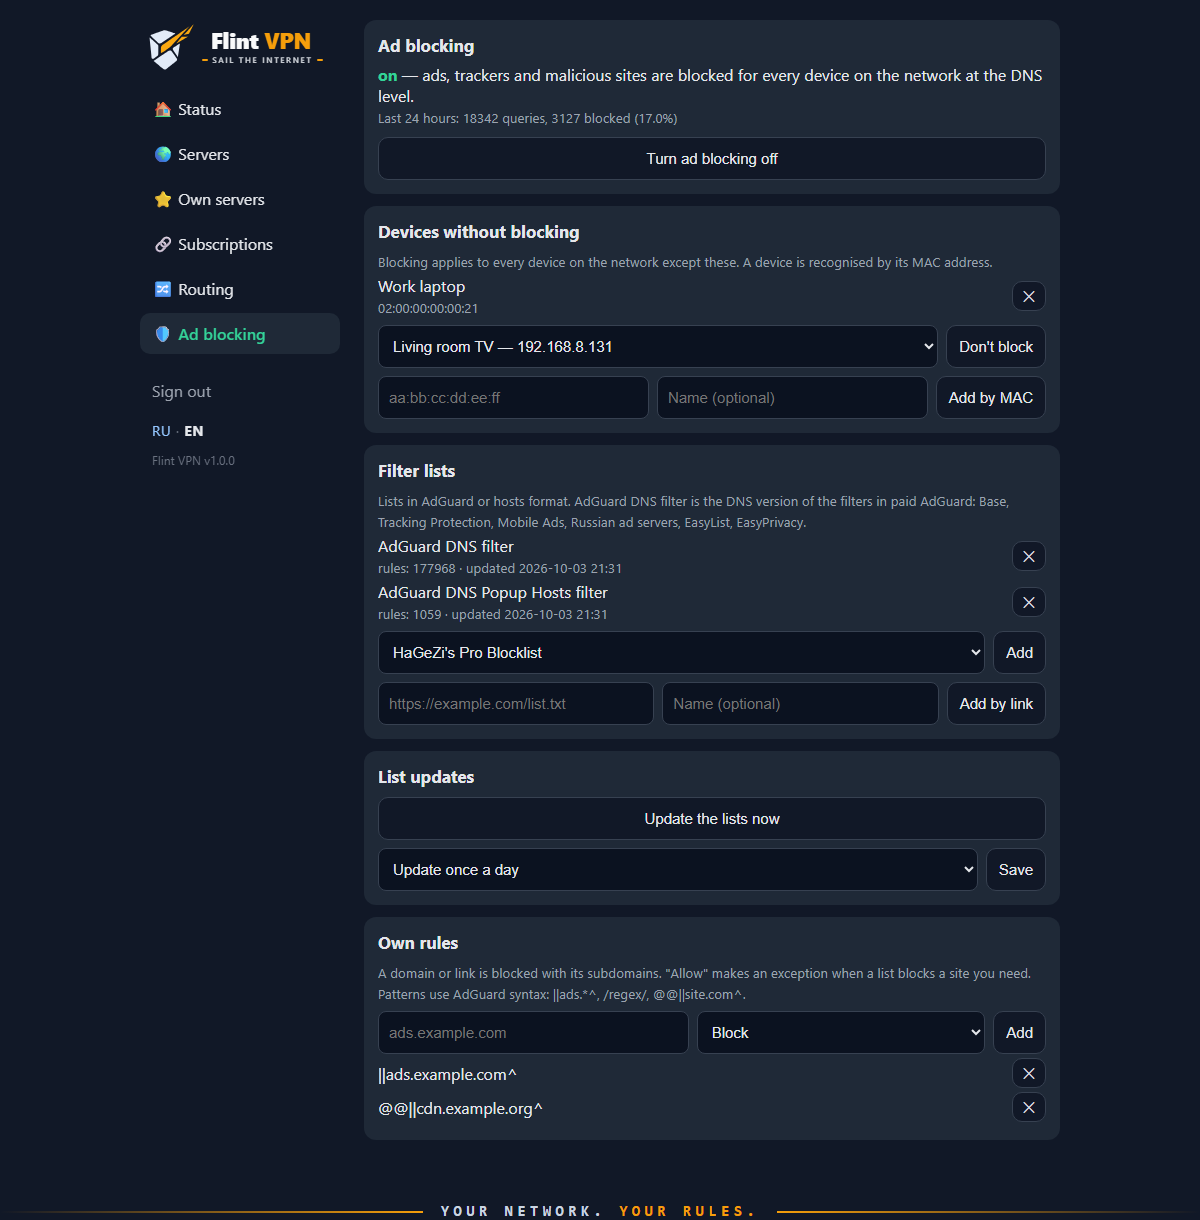
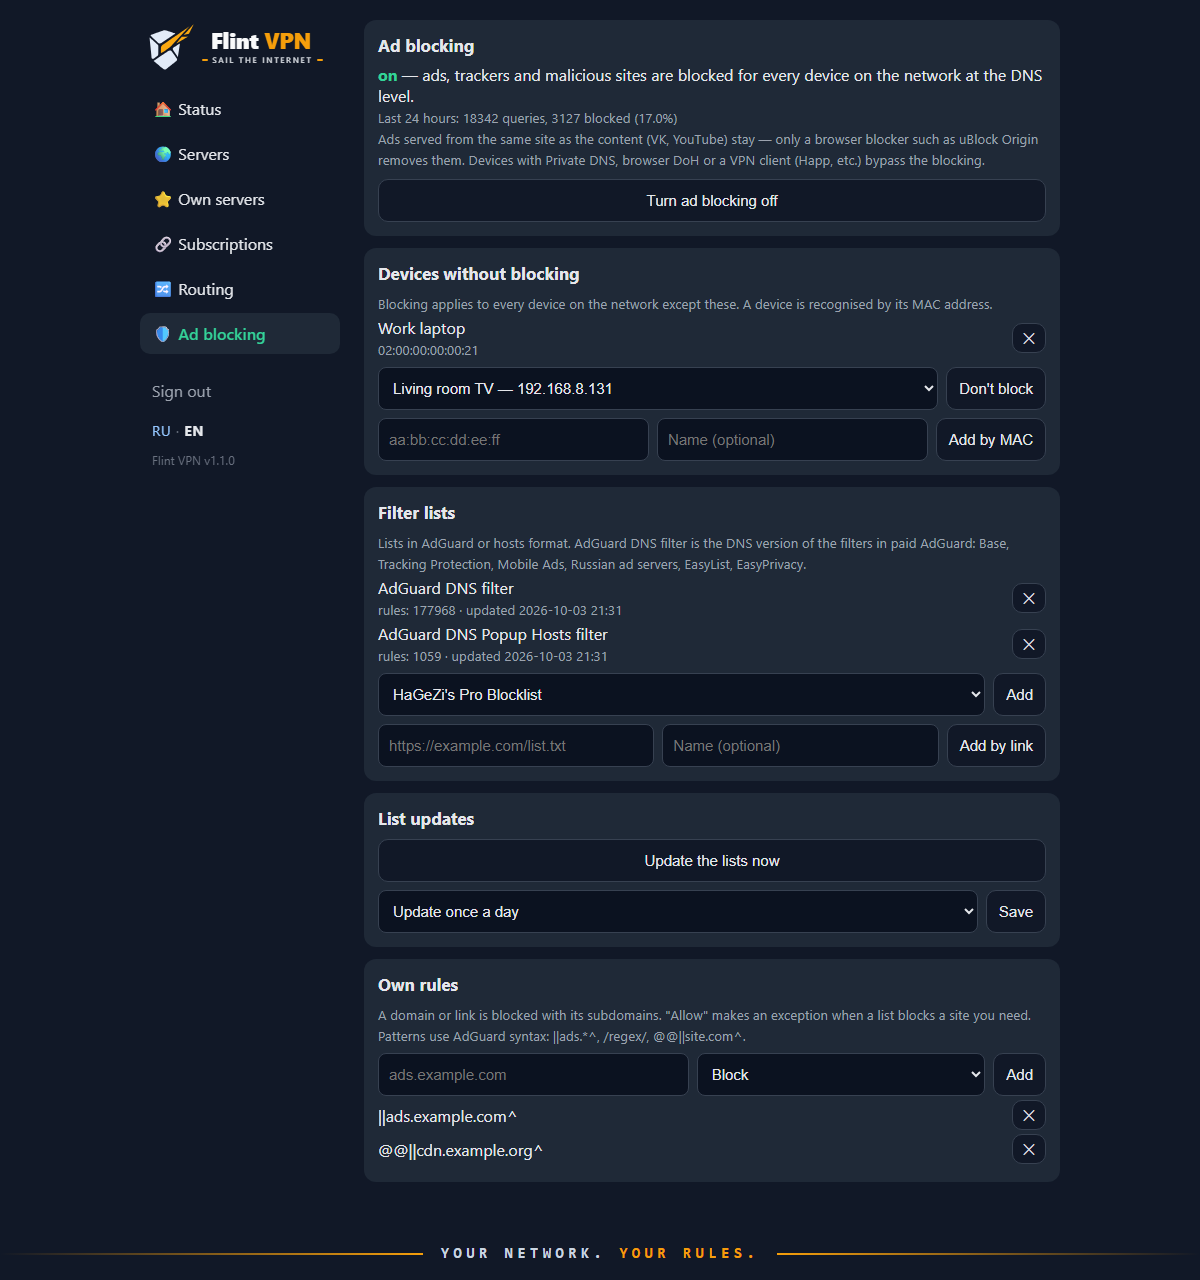
Docs: where ads remain, devices on the network (EN); re-shot screenshots, no-servers screen
- Ad blocking tab notes same-site ads (VK, YouTube) and who bypasses the blocking

- no-servers links are buttons now (were barely visible)

diff --git a/README.md b/README.md
@@ -62,8 +62,8 @@ Flint VPN превращает роутер GL.iNet в прозрачный VPN-
 | ![Подписки](docs/screenshots/subs.png) | ![Маршрутизация](docs/screenshots/routing.png) |
 | **Блокировка рекламы** | **Телефон** |
 | ![Блокировка рекламы](docs/screenshots/adblock.png) | ![Телефон](docs/screenshots/mobile-status.png) |
-| **Телефон: серверы** | |
-| ![Телефон: серверы](docs/screenshots/mobile-servers.png) | |
+| **Телефон: серверы** | **Без серверов** |
+| ![Телефон: серверы](docs/screenshots/mobile-servers.png) | ![Без серверов](docs/screenshots/empty.png) |
 
 На скриншотах демо-данные: адреса из документационных диапазонов, выдуманные серверы и ключи.
 
@@ -339,9 +339,24 @@ python tools/sub2nodes.py --grpc    # плюс gRPC-серверы
 
 Правила начинают действовать через несколько секунд.
 
-**Чего DNS-блокировка не умеет:** убирать рекламу, которая идёт с того же домена, что и контент (YouTube, ВКонтакте), и скрывать элементы на странице — это делают только расширения браузера вроде uBlock Origin. Устройства с «Частным DNS» или DoH в браузере обходят DNS роутера, а значит, и блокировку (см. [Устройства в сети](#устройства-в-сети)).
-
 AdGuard Home занимает 40–60 МБ памяти; при выключенной блокировке он остановлен.
+
+### Где реклама останется
+
+DNS-блокировка видит только имена сайтов, к которым обращается устройство, но не содержимое страниц. Отсюда ограничения:
+
+- **Реклама с того же домена, что и контент, остаётся.** ВКонтакте (рекламные блоки в ленте и в левой колонке), YouTube (ролики перед видео и внутри них), Instagram, Facebook, поиск и Дзен Яндекса отдают рекламу со своих же серверов вместе с лентой, а картинки к ней — с тех же адресов, что и фото в постах. Заблокировать такую рекламу по DNS можно только вместе с самим сайтом. Поэтому правило «Блокировать» для `vk.com` или `youtube.com` не поможет, а только сломает сайт.
+- **Элементы страницы не скрываются.** На месте заблокированного баннера может остаться пустая рамка или заглушка.
+- **Реклама внутри приложений** (YouTube на телевизоре, приложения соцсетей на телефоне) убирается только частично, по той же причине.
+
+На таких сайтах помогает только блокировщик на самом устройстве: в браузере на компьютере — расширение [uBlock Origin](https://ublockorigin.com/), на Android — Firefox с uBlock Origin. Оно прячет рекламные блоки прямо на странице и хорошо дополняет блокировку на роутере: роутер закрывает рекламные и трекерные домены на всех устройствах, включая телевизоры и приложения, а расширение — то, что идёт с самого сайта.
+
+**Кто обходит блокировку.** Устройства, чьи DNS-запросы идут мимо роутера:
+- Android с включённым «Частным DNS»;
+- браузеры с «безопасным DNS» (DoH): Chrome, Edge, Firefox, Яндекс Браузер;
+- устройства с включённым VPN-клиентом (Happ, v2rayN, Hiddify и т. п.): DNS и весь трафик уходят в его туннель, поэтому не работают ни блокировка, ни VPN роутера. За Flint VPN-клиент не нужен — выключите его.
+
+Подробнее о настройке устройств — в разделе [Устройства в сети](#устройства-в-сети). Если после включения блокировки сломался нужный сайт, разрешите его домен в «Своих правилах» или добавьте устройство в «Устройства без блокировки».
 
 ## Доступ к Flint из сети основного роутера
 
@@ -431,7 +446,7 @@ logread -e xray                # логи Xray
 
 ## Устройства в сети
 
-- VPN-клиент на устройствах за Flint не нужен. Если он всё же включён (например, Happ), его соединения с серверами провайдера идут с Flint напрямую, а не через второй VPN.
+- VPN-клиент на устройствах за Flint не нужен. Если он всё же включён (например, Happ), его соединения с серверами провайдера идут с Flint напрямую, а не через второй VPN, но такое устройство обходит гео-фильтр, свои сайты и блокировку рекламы роутера: всё решает клиент.
 - **Android:** *Настройки → Сеть → Частный DNS → Выкл.*, иначе телефон обходит DNS роутера.
 - **Windows:** в свойствах Wi‑Fi *Назначение DNS → Автоматически (DHCP)*; иначе включённый DoH обходит DNS роутера и локальные имена (`nas01`) не резолвятся.
 - **Браузеры** с включённым «безопасным DNS» (DoH) тоже обходят DNS роутера — гео-фильтр и свои сайты по доменам при этом продолжают работать (Xray определяет домен по TLS), а локальные имена и блокировка рекламы — нет.
@@ -462,7 +477,8 @@ logread -e xray                # логи Xray
 | Российский сайт открывается через VPN | нет баз geoip/geosite (тогда режим `global`): `flint-geo-update`; или добавьте сайт в «Напрямую» |
 | `opkg install ... failed` | `/tmp/flint-opkg.log`; есть ли интернет на роутере; положите Xray в `backup/bin/xray` |
 | Сайт или приложение сломалось при включённой блокировке рекламы | выключите блокировку и проверьте; если дело в ней — добавьте домен в «Свои правила» как «Разрешить» или устройство в «Устройства без блокировки» |
-| Реклама на устройстве не блокируется | на устройстве выключите «Частный DNS» / DoH в браузере; проверьте, что устройство не в исключениях; реклама с того же домена, что и видео (YouTube), DNS-блокировкой не убирается |
+| Реклама на устройстве не блокируется | на устройстве выключите «Частный DNS», DoH в браузере и VPN-клиент (Happ и т. п.); проверьте, что устройство не в исключениях |
+| Реклама осталась на ВКонтакте, YouTube и т. п. | она идёт с того же домена, что и контент, и DNS-блокировкой не убирается — поставьте в браузер uBlock Origin (см. [Где реклама останется](#где-реклама-останется)) |
 | Нужно понять, что происходит | `flint-node list`, `logread -e xray`, `cat /etc/xray/sub-checked`, `cat /etc/xray/watchdog-last` |
 
 ## Ограничения

diff --git a/README.en.md b/README.en.md
@@ -64,8 +64,8 @@ The panel is available in English and Russian: the language follows your browser
 | ![Subscriptions](docs/screenshots/en/subs.png) | ![Routing](docs/screenshots/en/routing.png) |
 | **Ad blocking** | **Phone** |
 | ![Ad blocking](docs/screenshots/en/adblock.png) | ![Phone](docs/screenshots/en/mobile-status.png) |
-| **Phone: servers** | |
-| ![Phone: servers](docs/screenshots/en/mobile-servers.png) | |
+| **Phone: servers** | **No servers** |
+| ![Phone: servers](docs/screenshots/en/mobile-servers.png) | ![No servers](docs/screenshots/en/empty.png) |
 
 The screenshots use demo data: documentation IP ranges, made-up servers and keys.
 
@@ -318,9 +318,24 @@ How it works:
 
 Rules take effect in a few seconds.
 
-**What DNS blocking can't do:** remove ads served from the same domain as the content (YouTube, VK) or hide page elements — only browser extensions like uBlock Origin do that. Devices with Private DNS or DoH in the browser bypass the router's DNS, and therefore the blocking too.
-
 AdGuard Home uses 40–60 MB of RAM; with blocking off it is stopped.
+
+### Where ads remain
+
+DNS blocking sees only the names of the sites a device connects to, not the page content. Hence the limits:
+
+- **Ads from the same domain as the content stay.** VK (ad blocks in the feed and the left column), YouTube (pre-roll and mid-roll ads), Instagram, Facebook, Yandex search and Dzen serve ads from their own servers together with the feed, and the ad images come from the same hosts as post photos. DNS can block such ads only together with the site itself, so a "Block" rule for `vk.com` or `youtube.com` will not help — it just breaks the site.
+- **Page elements are not hidden.** An empty frame or placeholder may stay where a blocked banner was.
+- **In-app ads** (YouTube on a TV, social network apps on a phone) are removed only partly, for the same reason.
+
+On such sites only a blocker on the device itself helps: the [uBlock Origin](https://ublockorigin.com/) extension in a desktop browser, Firefox with uBlock Origin on Android. It hides ad blocks right on the page and complements the router nicely: the router closes ad and tracker domains for every device, TVs and apps included, and the extension handles what comes from the site itself.
+
+**Who bypasses the blocking.** Devices whose DNS queries skip the router:
+- Android with Private DNS on;
+- browsers with secure DNS (DoH): Chrome, Edge, Firefox, Yandex Browser;
+- devices running a VPN client (Happ, v2rayN, Hiddify, etc.): DNS and all traffic go into its tunnel, so neither the blocking nor the router's VPN apply. Behind Flint a VPN client isn't needed — turn it off.
+
+More on device settings in [Devices on the network](#devices-on-the-network). If a site you need broke after turning blocking on, allow its domain in "Own rules" or add the device to "Devices without blocking".
 
 ## Access from the main router's network
 
@@ -386,6 +401,13 @@ flint-adblock interval 24        # auto-update: off, 1, 12, 24, 72, 168 hours
 logread -e xray                # Xray logs
 ```
 
+## Devices on the network
+
+- Devices behind Flint don't need a VPN client. If one is on anyway (e.g. Happ), its connections to the provider's servers leave Flint directly rather than through a second VPN, but such a device bypasses the router's geo filter, own sites and ad blocking: the client decides everything.
+- **Android:** *Settings → Network → Private DNS → Off*, otherwise the phone bypasses the router's DNS.
+- **Windows:** in the Wi‑Fi properties set *DNS server assignment → Automatic (DHCP)*; otherwise DoH bypasses the router's DNS and local names (`nas01`) don't resolve.
+- **Browsers** with secure DNS (DoH) also bypass the router's DNS — the geo filter and own sites by domain still work (Xray reads the domain from TLS), local names and ad blocking don't.
+
 ## Other OpenWrt routers
 
 Built for and tested only on the GL-BE6500. It should work elsewhere if:
@@ -410,7 +432,8 @@ If you run it on another device, please report the result in [Issues](https://gi
 | A subscription is not added | "could not be downloaded" - open the link in a browser, check the router's internet; "no supported servers" - the subscription has no VLESS + REALITY (VMess, Trojan, Shadowsocks, XHTTP are not supported) |
 | A Russian site goes via VPN | geoip/geosite missing (then `global` mode): `flint-geo-update`; or add the site as "direct" |
 | A site or app broke with ad blocking on | turn blocking off to confirm; if it is the cause, add the domain to own rules as "Allow" or the device to "Devices without blocking" |
-| Ads are not blocked on a device | turn off Private DNS / browser DoH on it; check it is not excluded; ads from the same domain as the video (YouTube) can't be blocked by DNS |
+| Ads are not blocked on a device | turn off Private DNS, browser DoH and any VPN client (Happ, etc.) on it; check it is not excluded |
+| Ads remain on VK, YouTube, etc. | they come from the same domain as the content and DNS blocking can't remove them — install uBlock Origin in the browser (see [Where ads remain](#where-ads-remain)) |
 | `opkg install ... failed` | `/tmp/flint-opkg.log`; router internet; put Xray into `backup/bin/xray` |
 
 ## Limitations

diff --git a/CHANGELOG.md b/CHANGELOG.md
@@ -6,6 +6,13 @@
 
 ## [Не выпущено]
 
+### Изменено
+- Вкладка «Реклама» объясняет, где реклама останется (ВКонтакте, YouTube — реклама с того же сайта) и кто обходит блокировку («Частный DNS», DoH в браузере, VPN-клиент).
+- README: раздел «Где реклама останется» (что не убирается по DNS, чем дополнить — uBlock Origin, кто обходит блокировку), в английском README — раздел «Devices on the network»; скриншоты пересняты, добавлен экран «Без серверов».
+
+### Исправлено
+- Ссылки «Добавить подписку» и «Добавить свой сервер» в режиме без серверов почти не были видны на тёмном фоне — теперь это кнопки.
+
 ## [1.1.0] — 2026-10-03
 
 ### Добавлено

diff --git a/CHANGELOG.en.md b/CHANGELOG.en.md
@@ -6,6 +6,13 @@ Versions before 1.0.0 were assigned afterwards from the commit history.
 
 ## [Unreleased]
 
+### Changed
+- The Ad blocking tab explains where ads remain (VK, YouTube — ads from the same site) and who bypasses the blocking (Private DNS, browser DoH, a VPN client).
+- README: a "Where ads remain" section (what DNS can't remove, uBlock Origin as a complement, who bypasses the blocking), a "Devices on the network" section in the English README; screenshots re-shot, a "No servers" screen added.
+
+### Fixed
+- The "Add a subscription" and "Add an own server" links in the no-servers mode were barely visible on the dark background — they are buttons now.
+
 ## [1.1.0] — 2026-10-03
 
 ### Added
